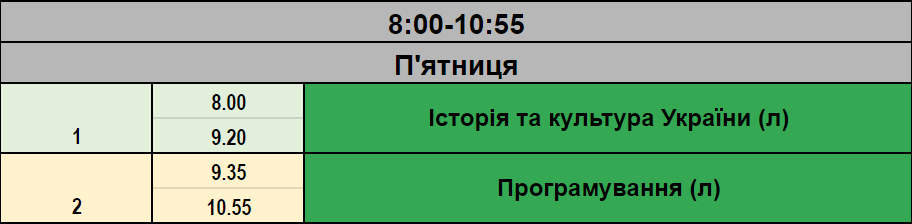
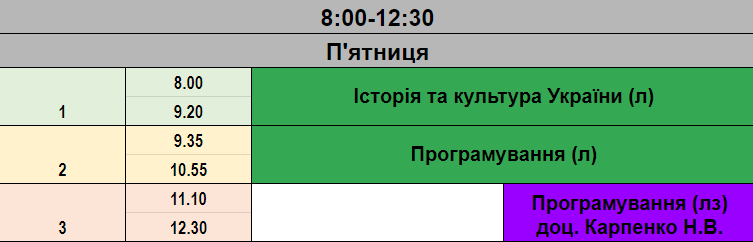
Update

diff --git a/main.py b/main.py
@@ -253,6 +253,9 @@ async def notify(pars):
     for user in notifyUsers:
         if int(week) % 2 == 0:
             if datetime.weekday(datetime.today()) == 0:
+                if int(pars) == 2:
+                    await bot.send_message(chat_id=user,
+                                           text=f'Через 5 минут начнется пара {config.mon_b_2}')
                 if int(pars) == 3:
                     await bot.send_message(chat_id=user,
                                            text=f'Через 5 минут начнется пара {config.mon_b_3}')
@@ -297,14 +300,12 @@ async def notify(pars):
                     await bot.send_message(chat_id=user,
                                            text=f'Через 5 минут начнется пара {config.fri_2}')
                 if int(pars) == 3:
-                    pass
+                    await bot.send_message(chat_id=user,
+                                           text=f'Через 5 минут начнется пара {config.fri_3}')
                 if int(pars) == 4:
                     pass
         else:
             if datetime.weekday(datetime.today()) == 0:
-                if int(pars) == 3:
-                    await bot.send_message(chat_id=user,
-                                           text=f'Через 5 минут начнется пара {config.mon_a_3}')
                 if int(pars) == 4:
                     await bot.send_message(chat_id=user,
                                            text=f'Через 5 минут начнется пара {config.mon_4}')
@@ -349,6 +350,9 @@ async def notify(pars):
                 if int(pars) == 2:
                     await bot.send_message(chat_id=user,
                                            text=f'Через 5 минут начнется пара {config.fri_2}')
+                if int(pars) == 3:
+                    await bot.send_message(chat_id=user,
+                                           text=f'Через 5 минут начнется пара {config.fri_3}')
 
 
 @dp.message_handler(commands=['notify_on'])
@@ -362,12 +366,11 @@ async def notify_on(message: types.Message):
         await bot.send_message(message.chat.id, 'Уведомления включены')
 
 scheduler = AsyncIOScheduler()
-scheduler.add_job(newday, 'cron', day_of_week='mon-fri', hour='7', minute='00')
-scheduler.add_job(notify, 'cron', day_of_week='mon-fri', hour='07', minute='55', args=('1'))
-scheduler.add_job(notify, 'cron', day_of_week='mon-fri', hour='09', minute='30', args=('2'))
-scheduler.add_job(notify, 'cron', day_of_week='mon-fri', hour='19', minute='47', args=('3'))
-scheduler.add_job(notify, 'cron', day_of_week='mon-fri', hour='11', minute='05', args=('3'))
-scheduler.add_job(notify, 'cron', day_of_week='mon-fri', hour='12', minute='40', args=('4'))
+scheduler.add_job(newday, 'cron', day_of_week='mon-fri', hour='4', minute='00')
+scheduler.add_job(notify, 'cron', day_of_week='mon-fri', hour='04', minute='55', args=('1'))
+scheduler.add_job(notify, 'cron', day_of_week='mon-fri', hour='06', minute='30', args=('2'))
+scheduler.add_job(notify, 'cron', day_of_week='mon-fri', hour='08', minute='05', args=('3'))
+scheduler.add_job(notify, 'cron', day_of_week='mon-fri', hour='09', minute='40', args=('4'))
 scheduler.start()
 
 
